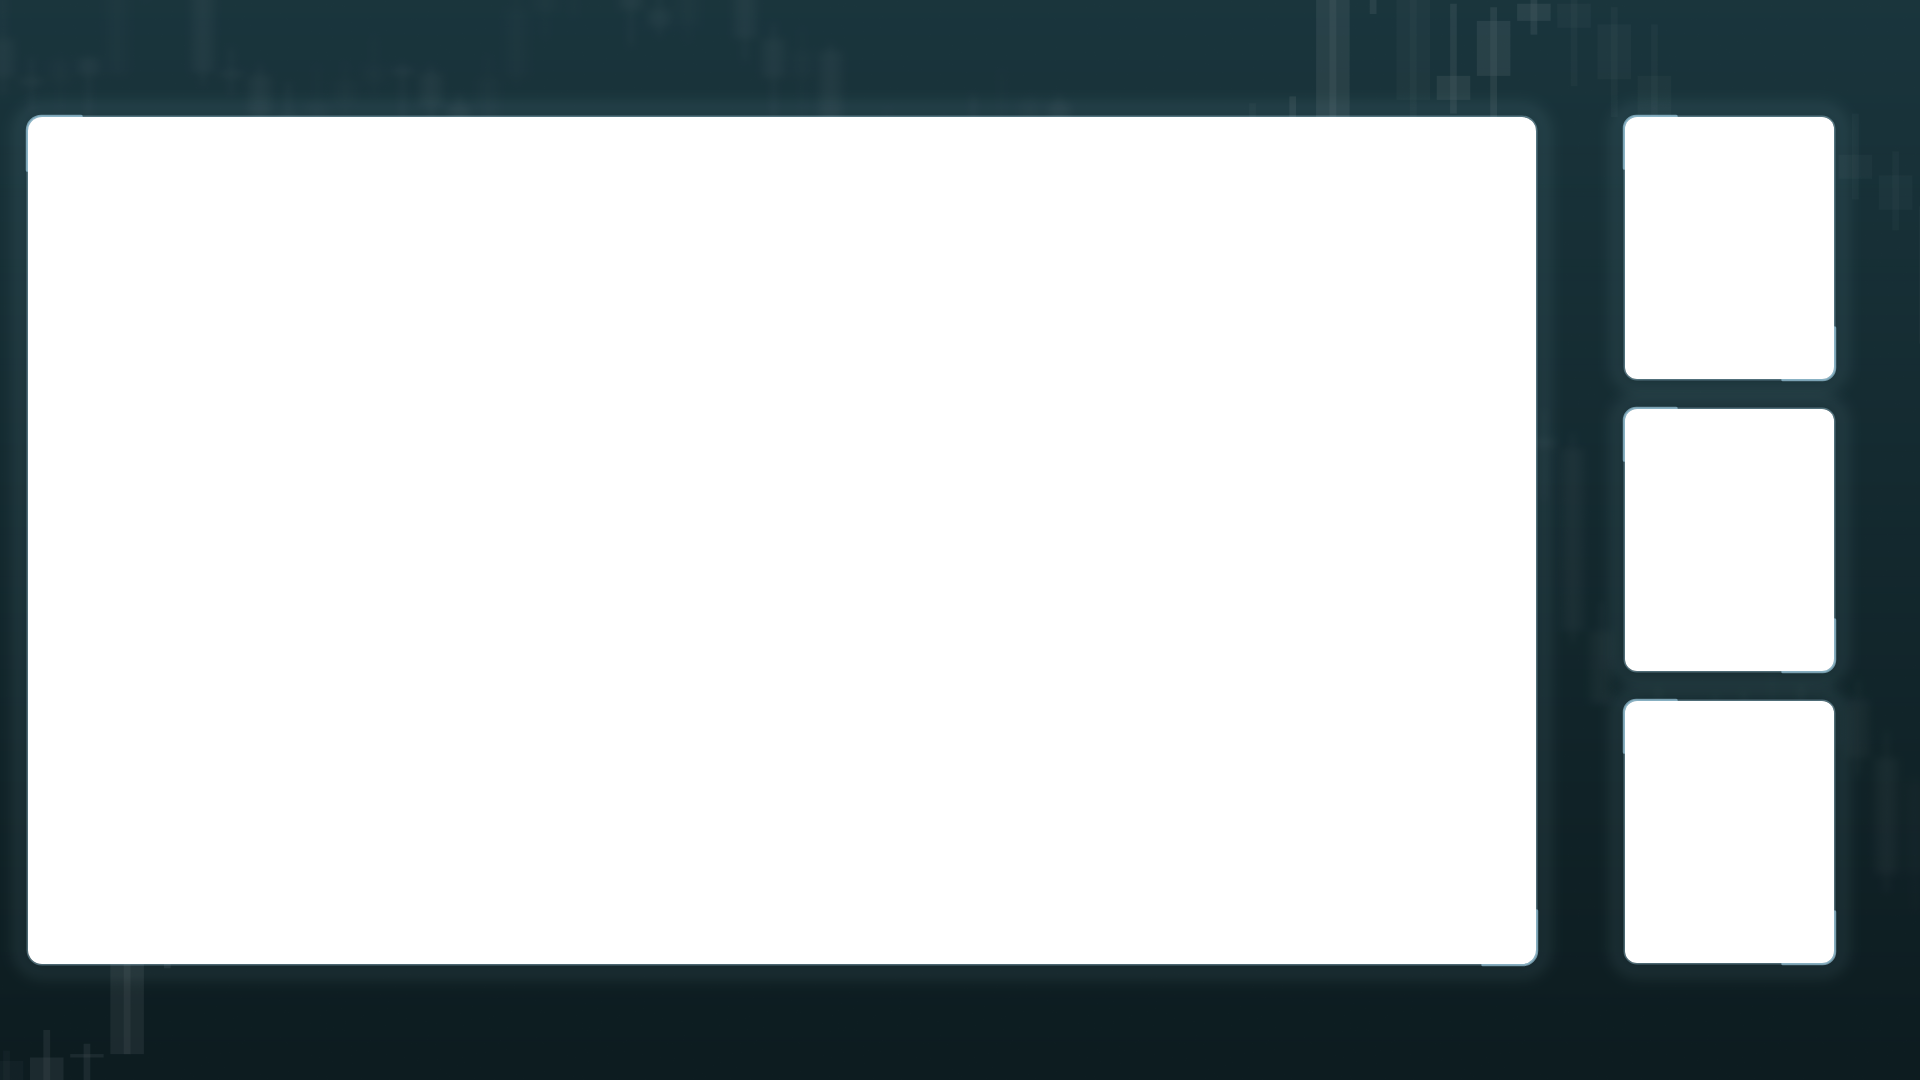
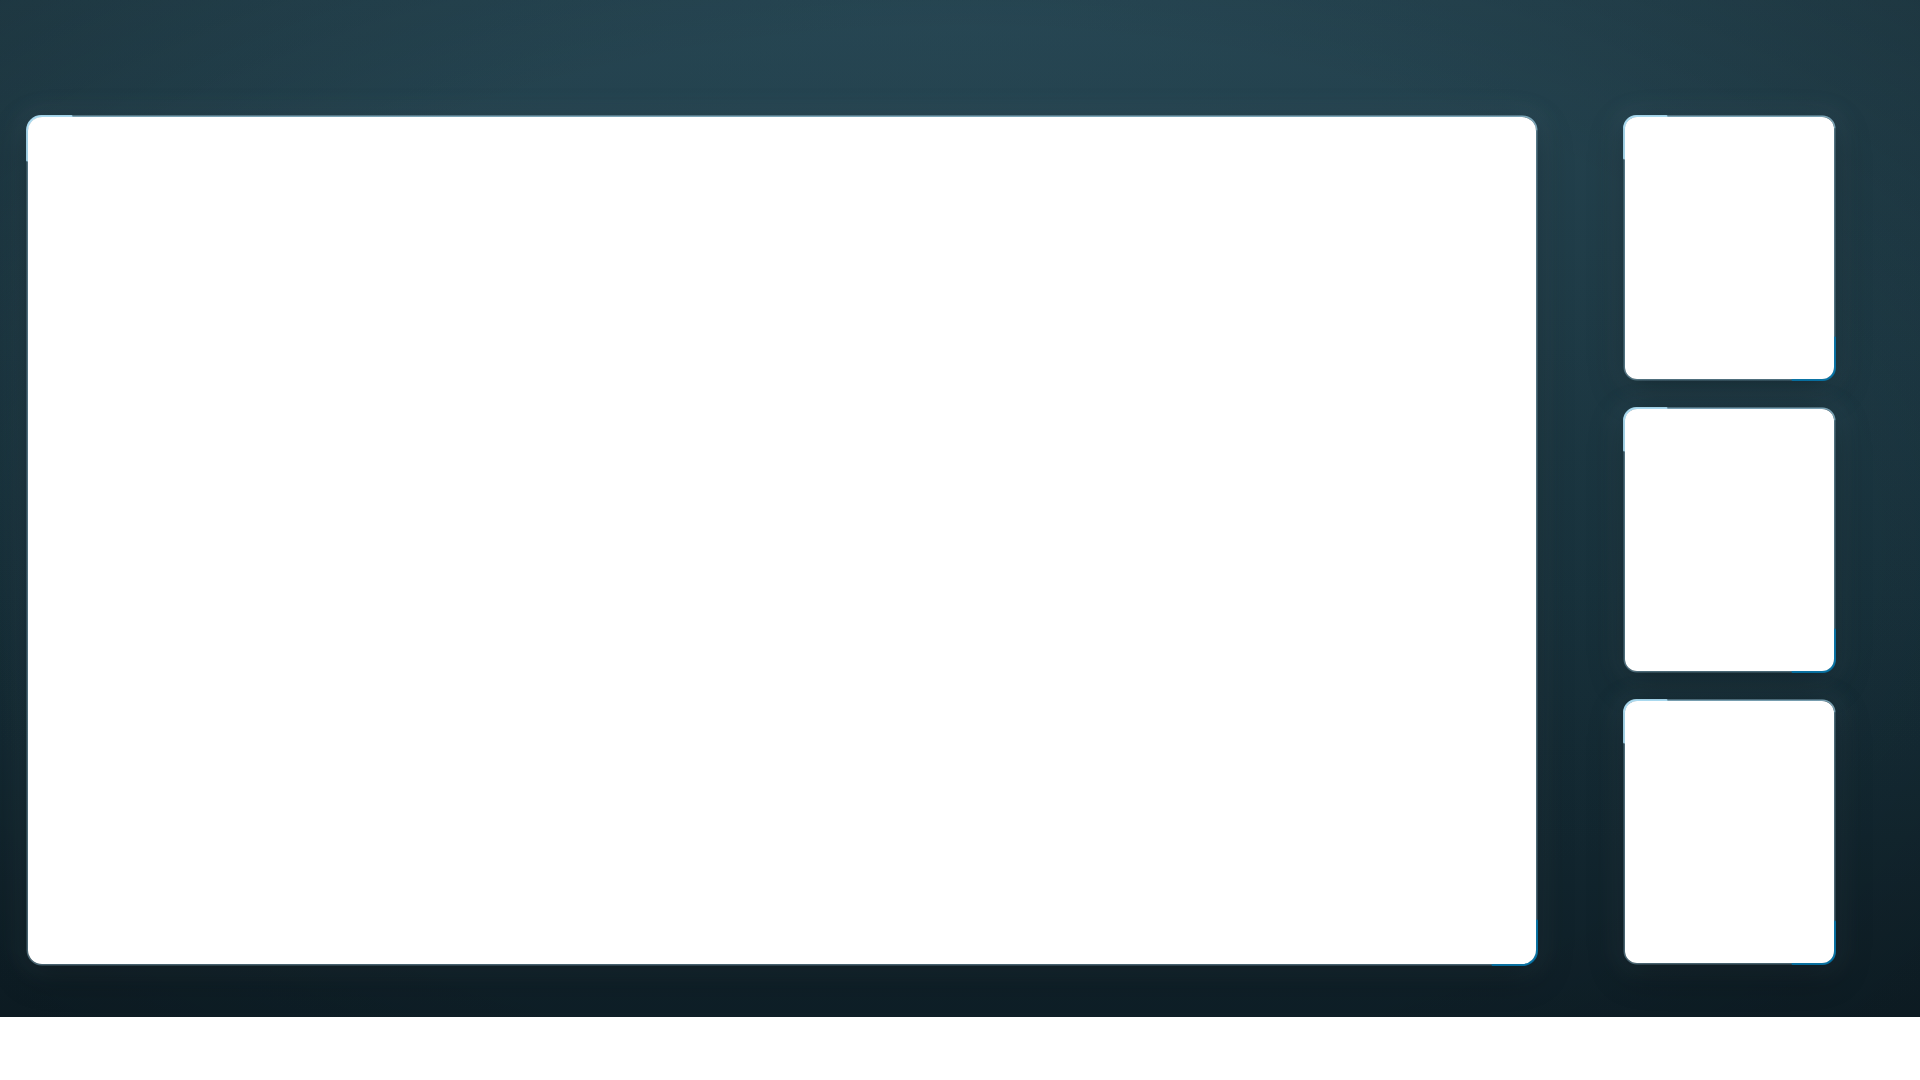
IC24: final integrated design set (11 layouts + 3 screens)

Changed region(s): [[0.0, 0.8861, 1.0, 1.0]]

diff --git a/liveprod-ic24/index.html b/liveprod-ic24/index.html
@@ -25,13 +25,12 @@
 </head>
 <body>
   <h1>InvestorsClub24 — OBS-Overlay-Set</h1>
-  <p class="sub">Rahmen-Stil „Hairline" · 11 Layouts + 3 Screens · 2026-08-25</p>
+  <p class="sub">Finales Design · ruhig/integriert · 11 Layouts + 3 Screens · 2026-08-25</p>
 
   <div class="note">
-    <b>Hintergrund 1:1</b> (adhouse-Navy + Candlesticks, keine Farb-Überlagerung) · Rahmen tonal/ruhig
-    (Hairline) · dunkelgraue Flächen bei den Layouts = transparente Live-Slots (Cam/Screen). Geometrie
-    1:1 zu Design-A. Screens: Serif „Lora", Pill-Badge, IC24-Blau. <b>Logo = Platzhalter-Wortmarke</b>
-    (echtes IC24-Logo-SVG wird noch eingesetzt).
+    <b>Ruhiger Navy-Verlauf</b> (Slide-74-Look, keine Kerzen) · Slots als <b>Karten</b> mit weichem
+    Schatten + feiner Kante + Licht-Rim + kleinen Eck-Highlights · echtes <b>IC24-Logo</b> auf den
+    Screens (Lora-Serif, Pill-Badge). Graue Flächen bei den Layouts = transparente Live-Slots.
   </div>
 
   <h2>Screens</h2>
